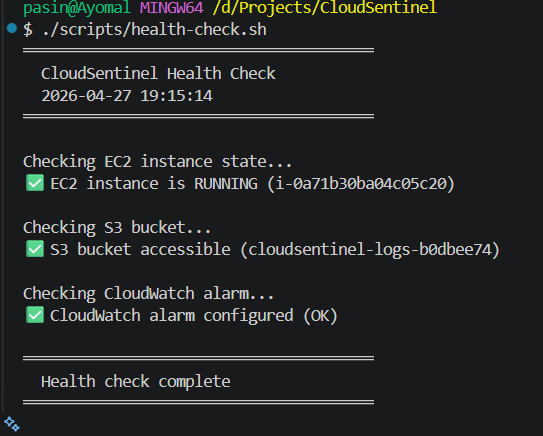
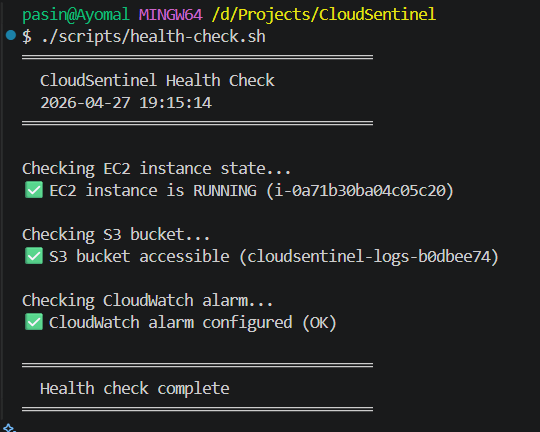
update screenshot references in README and replace images with new files

diff --git a/README.md b/README.md
@@ -39,15 +39,15 @@ terraform destroy  →  Clean teardown, zero orphaned resources
 
 ### AWS Console — EC2 Instance Running
 <!-- Replace with your actual screenshot -->
-![EC2 Running](screenshots/02-ec2-running.png)
+![EC2 Running](screenshots/EC2.png)
 
 ### AWS CloudWatch — Dashboard Live
 <!-- Replace with your actual screenshot -->
-![CloudWatch Dashboard](screenshots/03-cloudwatch-dashboard.png)
+![CloudWatch Dashboard](screenshots/CloudWatch.png)
 
 ### Health Check Script — All Green
 <!-- Replace with your actual screenshot -->
-![Health Check](screenshots/04-health-check-green.png)
+![Health Check](screenshots/health-check.png)
 
 ### GitHub Actions — Terraform Validate Green
 <!-- Replace with your actual screenshot -->
